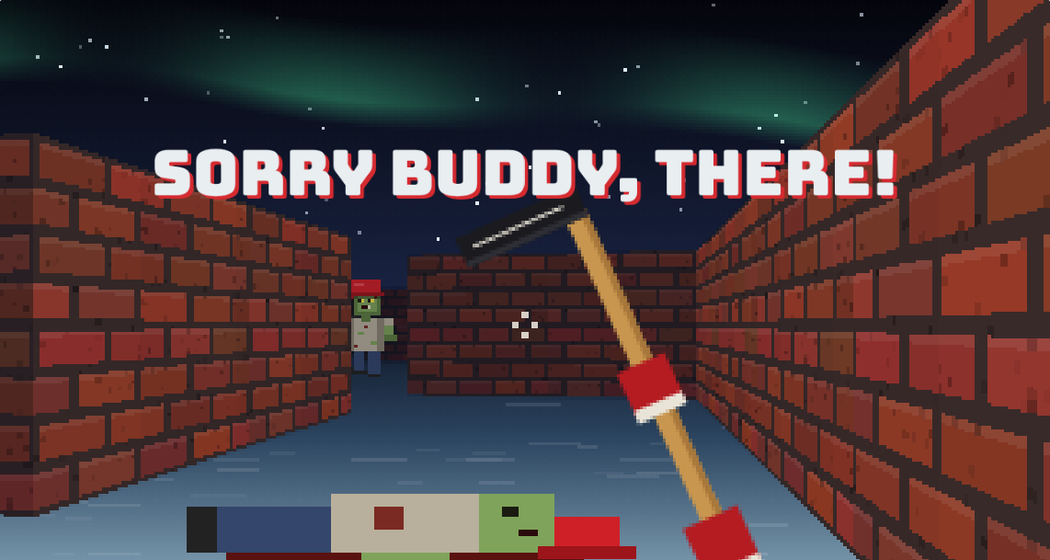
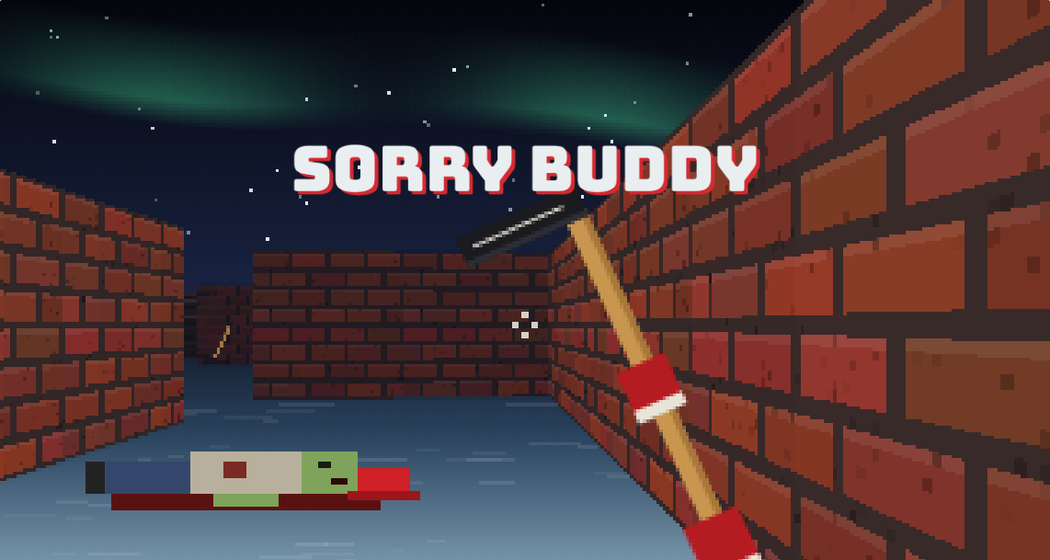
Aye Buddy: kill text reads 'Sorry buddy'
Claude-Session: https://claude.ai/code/session_01L5wNn7vZ8CpWVofpojRXq6

diff --git a/index.html b/index.html
@@ -209,7 +209,7 @@ try {
       <!-- Aye Buddy -->
       <li class="card">
         <figure class="card-visual">
-          <img src="assets/aye-buddy.png" alt="First-person view down a brick hallway: a hockey stick in hand, a downed red-cap zombie on the ice, another shambling closer, and SORRY BUDDY, THERE! across the screen." loading="lazy">
+          <img src="assets/aye-buddy.png" alt="First-person view in a brick hallway: a hockey stick in hand, a downed red-cap zombie on the ice, and SORRY BUDDY across the screen." loading="lazy">
           <figcaption class="visual-caption">Clear waves of red-hat zombies with a hockey stick, ice skates and Maple Lager Molotovs.</figcaption>
         </figure>
         <div class="card-head">
@@ -220,7 +220,7 @@ try {
           A Doom-style shooter on a raycasting engine written from scratch. One Canadian
           holds the rink against waves of red-hat zombies. The stick snaps after 50 hits and
           the skates dull with every slash, so you have to skate for spare gear. Every kill
-          gets a "Sorry buddy, there!" All sprites and textures are drawn in code.
+          gets a "Sorry buddy." All sprites and textures are drawn in code.
         </p>
         <ul class="tags">
           <li>Raycasting</li>

diff --git a/aye-buddy/index.html b/aye-buddy/index.html
@@ -7,7 +7,7 @@
 <meta name="description" content="A Doom-style browser game. One Canadian, one rink, way too many red hats. Fight with a hockey stick, ice skates and Maple Lager Molotovs.">
 <meta name="theme-color" content="#0b1120">
 <meta property="og:title" content="Aye Buddy">
-<meta property="og:description" content="One Canadian, one rink, way too many red hats. Sorry buddy, there!">
+<meta property="og:description" content="One Canadian, one rink, way too many red hats. Sorry buddy.">
 <meta property="og:image" content="https://tjdoolittle.github.io/assets/aye-buddy.png">
 <link rel="preconnect" href="https://fonts.googleapis.com">
 <link rel="preconnect" href="https://fonts.gstatic.com" crossorigin>
@@ -498,7 +498,7 @@ let bannerTimer = 0, toastTimer = 0;
 function banner(m, s, dur = 2.4) { $('bannerM').textContent = m; $('bannerS').textContent = s; bannerEl.hidden = false; bannerTimer = dur; }
 function toast(msg, dur = 1.6) { toastEl.textContent = msg; toastEl.hidden = false; toastTimer = dur; }
 function sayCatch(boss) {
-  catchEl.textContent = boss ? 'SORRY BUDDY, THERE!' : 'Sorry buddy, there!';
+  catchEl.textContent = 'Sorry buddy';
   catchEl.classList.remove('pop'); void catchEl.offsetWidth; catchEl.classList.add('pop');
   speak();
 }
